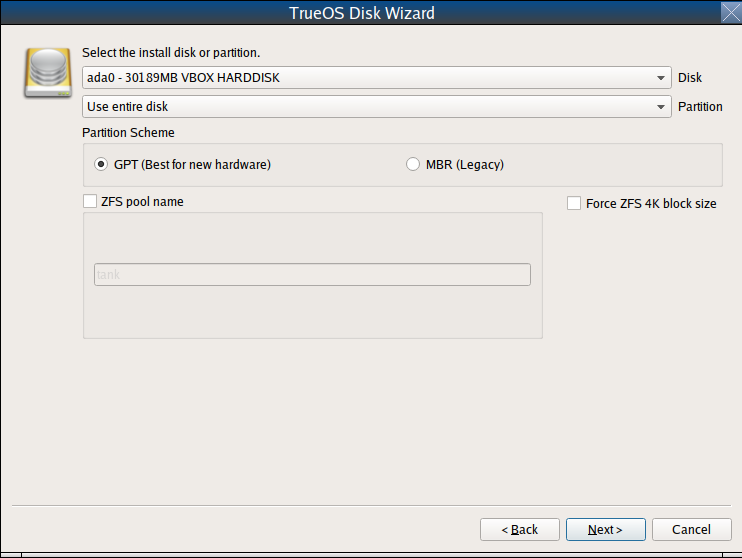
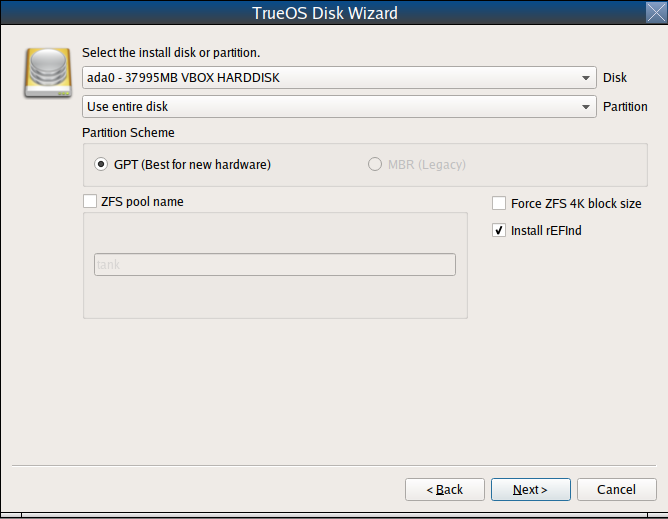
Screenshot update and documentation expansion: - Update first boot wizard screenshots. - Add rEFInd documentation to install and postinstall sections. - Add screenshots of rEFInd and EFI installer options. - Fix a few text errors and move the display detection section to its proper place.

diff --git a/trueos-handbook/postinstall.rst b/trueos-handbook/postinstall.rst
@@ -14,9 +14,50 @@ system.
 Booting Into |trueos|
 =====================
 
-After installation, |trueos| reboots and displays a boot menu. The menu
-displayed depends upon the boot loader selection chosen during the
-installation.
+After installation, |trueos| reboots and displays a boot menu. The first
+menu displayed depends on whether or not rEFInd is installed or the user
+customized the boot loader during the installation.
+
+.. index:: rEFInd
+.. _rEFInd Boot Manager:
+
+rEFInd Boot Manager
+-------------------
+
+For EFI or UEFI systems, the user can choose to install rEFInd. This
+is a boot manager that is useful when :ref:`Dual Booting`.
+:numref:`Figure %s <refind1.2>` shows the initial rEFInd screen.
+
+.. _refind1.2:
+
+.. figure:: images/refind1.png
+   :scale: 100%
+
+   rEFInd Boot Manager
+
+rEFInd displays any installed operating systems, booting into the default
+choice after a few seconds. Press any key other than :kbd:`Enter` to pause
+automatic booting, then use the arrow keys to select the desired operating
+system. Press :kbd:`Enter` to continue booting.
+
+There are a number of options in rEFInd aside from choosing an operating
+system:
+
+* **About rEFInd:** This option displays the version and copyrights of
+  rEFInd. It also shows the EFI Revision, Platform, Firmware, and
+  Screen Output.
+
+* **Shut Down Computer**
+
+* **Reboot Computer**
+
+* **Reboot to Computer Setup Utility:** Not used in |trueos|.
+
+Additional boot options for an operating system are available by
+highlighting the OS and pressing :kbd:`F2` or :kbd:`Insert`.
+
+Once |trueos| is chosen in rEFInd, the next initial boot screen
+displays.
 
 .. index:: bsd boot loader
 .. _BSD Boot Loader:
@@ -119,62 +160,37 @@ continues to boot.
 .. _Display Detection:
 
 Display Detection
------------------
+=================
 
-.. TODO this section needs a complete rework (text and screenshots) once
- next STABLE update is is released (sometime after 5/18).
+.. TODO update screenshot and remove note box when advanced tab is
+   removed.
 
-The first time the boot completes, the post-installer configuration
-script attempts to set the optimal display settings. A pop-up menu
-either asks to accept the settings or indicates the system could not
-find the optimal settings. Click :guilabel:`Yes` to accept the settings
-and |trueos| proceeds to the :ref:`Choose a Language` screen so the
-initial configuration can continue.
-
-If the optimal display settings could not be determined, or if
-:guilabel:`No` is selected in the :guilabel:`Confirm Resolution` screen,
-the :guilabel:`Display Settings` screen shown in
-:numref:`Figure %s <display3>` launches.
+When booting for the first time, |trueos| shows a
+:guilabel:`Display Settings` screen, reproduced in
+:numref:`Figure %s <display3>`.
 
 .. _display3:
 
-.. figure:: images/display3.png
+.. figure:: images/display3a.png
    :scale: 100%
 
-   Display Settings Wizard
+   Display Settings
 
-This screen can be used to select the desired screen resolution, color
-depth, and video driver. The :guilabel:`vesa` driver always works but
-provides sub-optimal performance. Click on the drop-down menu to select
-the driver most closely matching your video card name.
+Use this screen to view the detected video card and choose a graphics
+driver from the expanding menu. |trueos| also suggests a driver.
 
-The drop-down menus can also be used to change the screen resolution and
-color depth values. If the desired value is not listed, the selected
-driver may not support that resolution or depth.
-
-Advanced users can select their monitor's horizontal sync and vertical
-refresh rate in the :guilabel:`Advanced` tab, seen in
-:numref:`Figure %s <display4>`.
-
-.. _display4:
-
-.. figure:: images/display4.png
-   :scale: 100%
-
-   Advanced Display Settings
-
-Use caution and refer to the connected monitor's documentation while
-making changes. If unsure what settings are required, it is recommended
-to leave the default values.
-
-If the computer is connected to two monitors, check
-:guilabel:`Enable Dual-Head support`.
+The :guilabel:`vesa` driver always works but provides sub-optimal
+performance. Click on the drop-down menu to select the driver most
+closely matching your video card name.
 
 When finished, click :guilabel:`Apply` for the settings to be tested. If
 anything goes wrong during testing, the system returns to the
 :guilabel:`Display Settings` screen in order for the user to select
-another setting. Once satisfied with the settings, click :guilabel:`Yes`
+another driver. Once satisfied with the settings, click :guilabel:`Yes`
 when prompted to accept them.
+
+.. note:: The :guilabel:`Advanced` tab is disabled and scheduled for
+   removal.
 
 .. index:: choose language
 .. _Choose a Language:
@@ -211,13 +227,13 @@ configuration screen.
 Time Zone Selection
 ===================
 
-The next configuration screen, shown in :numref:`Figure %s <config2>`,
+The timezone select screen, shown in :numref:`Figure %s <config2>`,
 allows selection of the timezone and configuring the system's host and
 domain names.
 
 .. _config2:
 
-.. figure:: images/config2b.png
+.. figure:: images/config2c.png
    :scale: 100%
 
    Time Zone Selection
@@ -242,18 +258,20 @@ When finished, click :guilabel:`Next` to proceed to the next screen.
 Set the Root Password
 =====================
 
-This configuration screen, seen in :numref:`Figure %s <config3>`,
-**requires** the root (administrative) password to be set.
+This screen, seen in :numref:`Figure %s <config3>`, **requires** setting
+the root (administrative) password.
 
 .. _config3:
 
-.. figure:: images/config3a.png
+.. figure:: images/config3b.png
    :scale: 100%
 
    Root Password Creation
 
-The password must be a minimum of **4** characters and must be typed
-twice to confirm the password. Click :guilabel:`Next` when finished.
+The password must be a minimum of **4** characters and typed twice to
+confirm the password. Try to create a complex, but memorable password,
+as this is used whenever the system indicates administrative access is
+required. Click :guilabel:`Next` when finished.
 
 .. index:: create a user
 .. _Create a User:
@@ -262,15 +280,14 @@ Create a User
 =============
 
 This screen is used to create the primary user account used to login to
-the system. Try to create a complex and memorable password, as this one
-is used whenever the system indicates administrative access is required.
+the system. 
 
 :numref:`Figure %s <config4>` shows the configuration screen used to
 create the initial user account.
 
 .. _config4:
 
-.. figure:: images/config4a.png
+.. figure:: images/config4b.png
    :scale: 100%
 
    User Creation
@@ -286,7 +303,7 @@ screen requires completing several fields:
   username from *kris*).
 
 * **Password:** This is the password to use when logging in. It must
-  be typed twice to confirm it.
+  be typed twice for confirmation.
 
 * **Specify UID:** By default, the user is assigned the next available
   User ID (UID). If a specific UID is required, it can be set here. A
@@ -302,20 +319,20 @@ username only appears in the login menu if the removable media
 associated with that |trueos| system is inserted. They must input the
 password associated with the removable device in order to log in.
 
-.. note:: When a user is configured to use a PersonaCrypt device, that
-   user cannot log in using an unencrypted session on the same system.
-   In other words, the PersonaCrypt username is reserved only for
-   PersonaCrypt use. If necessary to login to both encrypted and
-   unencrypted sessions on the same system, create two different user
-   accounts; one for each type of session.
+When a user is configured to use a PersonaCrypt device, that user cannot
+log in using an unencrypted session on the same system. In other words,
+the PersonaCrypt username is reserved only for PersonaCrypt use. If
+necessary to login to both encrypted and unencrypted sessions on the
+same system, create two different user accounts; one for each type of
+session.
 
-Encryption is also possible without requiring removable devices using
-*PEFS*. Refer to the |sysadm| section on
-:sysclbk:`PEFS Encryption <pefs>` for more detailed instructions to
-initialize a user with *PEFS*.
+.. note:: Encryption is also possible without requiring removable
+   devices using *PEFS*. Refer to the |sysadm| handbook section on
+   :sysclbk:`PEFS Encryption <pefs>` for more detailed instructions to
+   initialize a user with *PEFS*.
 
 :numref:`Figure %s <persona1>` shows the :guilabel:`PersonaCrypt` tab.
-This tab is used to initialize PersonaCrypt for the user.
+This is used to initialize PersonaCrypt for the user.
 
 .. _persona1:
 
@@ -325,8 +342,8 @@ This tab is used to initialize PersonaCrypt for the user.
    User's PersonaCrypt Initialization
 
 Check :guilabel:`Initialize PersonaCrypt Device`, insert a removable
-media large enough to hold all necessary files to store in the home
-directory, then click :guilabel:`Select`.
+media device large enough to hold a user's home directory, then click
+:guilabel:`Select`.
 
 .. warning:: Ensure there are no desired files on the removable media.
    Initializing the media for PersonaCrypt formats the device with ZFS
@@ -352,7 +369,7 @@ can choose the output device and test it.
 
 .. _audio1:
 
-.. figure:: images/audio1a.png
+.. figure:: images/audio1b.png
    :scale: 100%
 
    Configure Audio Output
@@ -382,19 +399,18 @@ strength.
 
 .. _config5:
 
-.. figure:: images/config5.png
+.. figure:: images/config5a.png
    :scale: 100%
 
    Wireless Network Connections
 
 To set the default wireless connection, click the desired network in the
-:guilabel:`Available Wireless Networks` area, then click
-:guilabel:`Add Selected`. If the network requires a password, a window
-will appear requesting the password and indicate the security type used
-by the desired network. If the desired network is not visible in the
-:guilabel:`Available Wireless Networks` area, click :guilabel:`Scan`. If
-unable to connect or to configure the connection later, refer to
-:ref:`Network Manager` for more detailed instructions.
+:guilabel:`Available Wireless Networks` area. If the network requires a
+password, a window appears requesting the password and indicating the
+security type used by the desired network. If the desired network is not
+visible in the :guilabel:`Available Wireless Networks` area, click
+:guilabel:`Rescan`. If unable to connect or to configure the connection
+later, refer to :ref:`Network Manager` for more detailed instructions.
 
 .. index:: enable optional services, SSH, IPv6
 .. _Enable Optional Services:
@@ -448,7 +464,7 @@ setup is complete. Click :guilabel:`Finish` to access the login menu.
 
 .. _config7:
 
-.. figure:: images/config7.png
+.. figure:: images/config7a.png
    :scale: 100%
 
    Setup Complete

diff --git a/trueos-handbook/install.rst b/trueos-handbook/install.rst
@@ -269,6 +269,9 @@ in :numref:`Figure %s <install7>`.
 
    Disk or Partition Selection
 
+.. note:: When installing without EFI, :guilabel:`Install rEFInd`
+   is not available.
+
 The first hard disk is typically selected. To install on a different
 disk, use the :guilabel:`Disk` drop-down menu to select the install
 disk.
@@ -281,6 +284,14 @@ is divided into partitions or there is an area of free space, use the
    partition, or an area of free space. |trueos| cannot install into
    a secondary or an extended partition. To create an area of free
    space for installation, refer to :ref:`Creating Free Space`.
+
+For EFI/UEFI systems, you can choose to :guilabel:`Install rEFInd`.
+The `rEFInd boot manager <http://www.rodsbooks.com/refind/>`_ is
+used to provide a menu of boot options to the user when the computer
+boots. It is required by |trueos| when :ref:`Dual Booting`.
+
+.. note:: rEFInd is a boot manager which functions separately from the
+   FreeBSD bootloader.
 
 Once the disk and partition are selected, click :guilabel:`Next` to
 view a **Summary** screen to review your choices. To make additional
@@ -335,6 +346,12 @@ This screen has several options:
 * **Force ZFS 4k block size:** This option is only used if the disk
   supports 4k, even though the disk may lie and report its size as
   512b. Use with caution as it may cause the installation to fail.
+
+* **Install rEFInd:** For EFI/UEFI systems, you can choose to
+  :guilabel:`Install rEFInd`. The
+  `rEFInd boot manager <http://www.rodsbooks.com/refind/>`_ is used to
+  provide a menu of boot options to the user when the computer boots. It
+  is required by |trueos| when :ref:`Dual Booting`.
 
 After making any selections, click :guilabel:`Next` to access the ZFS
 configuration screens. The rest of this section provides a ZFS overview
@@ -881,11 +898,13 @@ partition, or an existing operating system may be overwritten.
 
 Dual booting with |trueos| has several requirements:
 
-* An *EFI* partitioning scheme. |trueos| does not support the older
-  MBR partition scheme, opting instead to use
-  `rEFInd <http://www.rodsbooks.com/refind/>`_ for managing or loading
-  individual operating systems. Additionally, TrueOS still uses the BSD
-  boot loader, as it provides native support for ZFS boot environments.
+* An *EFI* or *UEFI* partitioning scheme. |trueos| does not support the
+  older MBR partition scheme, opting instead to use
+  `rEFInd <http://www.rodsbooks.com/refind/>`_ for managing or booting
+  into operating systems. TrueOS still uses the BSD boot loader, as it
+  provides native support for ZFS boot environments. Be sure to select
+  :guilabel:`Install rEFInd` when installing |trueos| (see
+  :ref:`install7`).
 
 * A partition for each operating system. Many operating systems,
   including |trueos|, can only be installed into a primary or *GPT*
@@ -907,6 +926,22 @@ partitions, each partition is listed.
 Highlight the desired partition and click :guilabel:`Customize`.
 Clicking :guilabel:`Next` without customizing the disk layout results
 in the installer overwriting the contents of the primary disk.
+
+Once installed, |trueos| boots into the rEFInd menu seen in
+:numref:`Figure %s <refind1>`.
+
+.. _refind1:
+
+.. figure:: images/refind1.png
+   :scale: 100%
+
+   rEFInd Boot Manager
+
+rEFInd displays any installed operating systems, booting into the
+default choice after a few seconds. Press any key other than
+:kbd:`Enter` to pause automatic booting, then use the arrow keys to
+select the desired operating system. Press :kbd:`Enter` to continue
+booting.
 
 .. index:: using system utilities menu
 .. _Using the System Utilities Menu:
